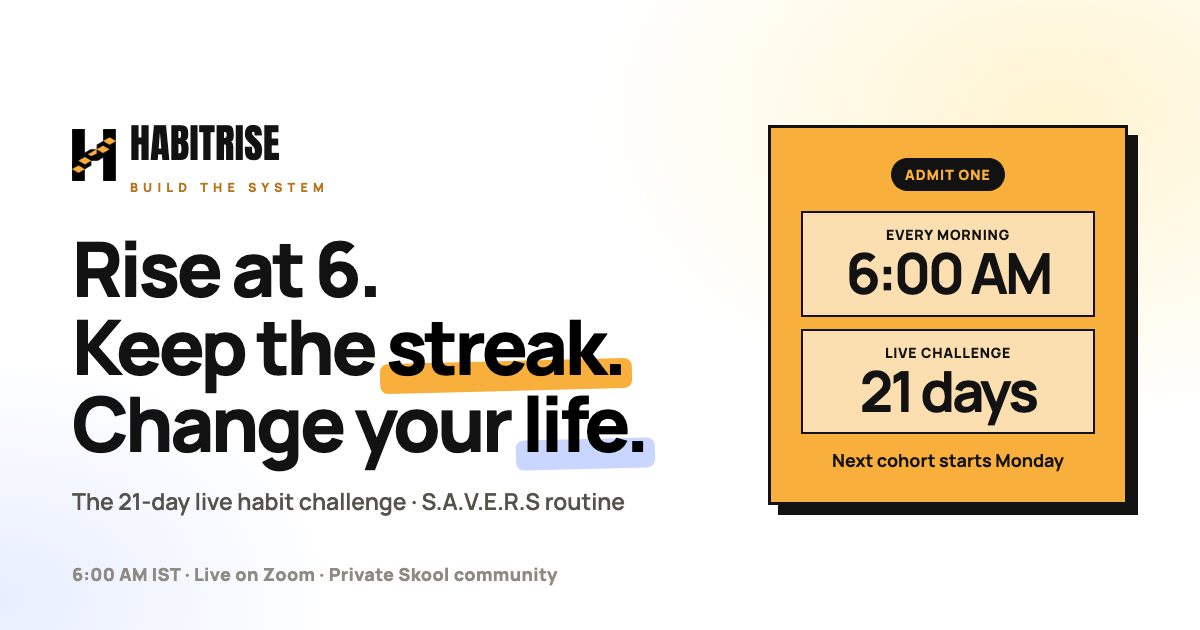
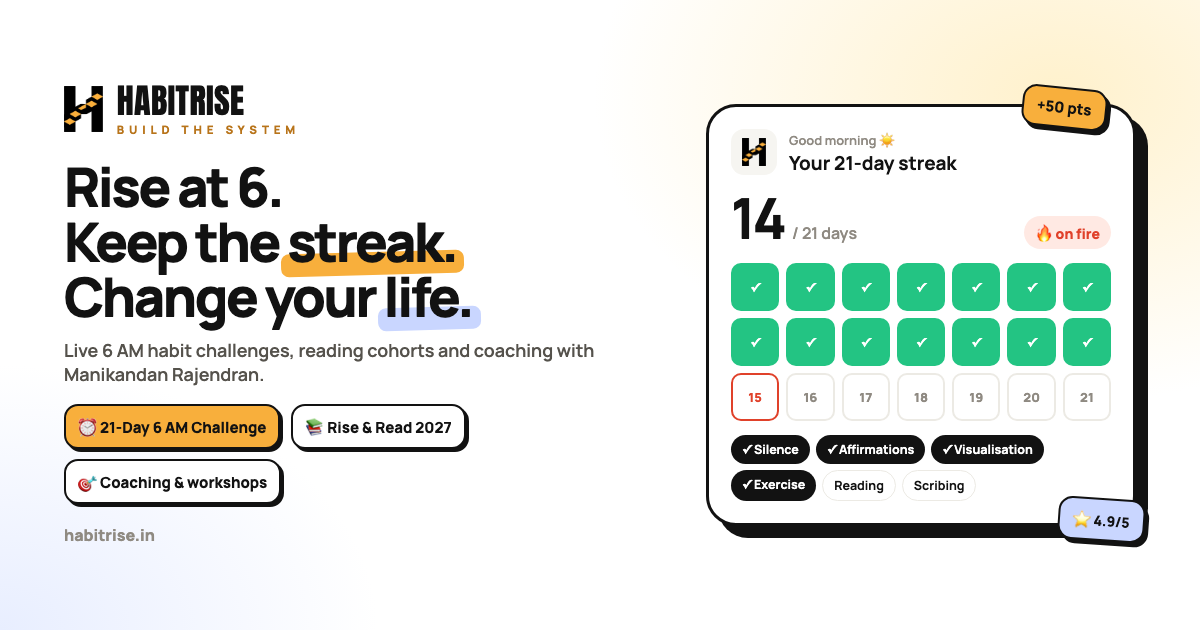
Whole-website ads (1200×630 + 1080×1080); the thumbnail is now the site share image; README: ads and the admin dashboard

diff --git a/scripts/ads/habitrise.html b/scripts/ads/habitrise.html
@@ -1,0 +1,99 @@
+<!doctype html>
+<!-- HabitRise ad for the whole website. ?size=thumb (1200×630, also the site's share image) or ?size=square (1080×1080).
+     Render: node scripts/ads/render.mjs → public/ads/ (+ public/og-image.png) -->
+<html><head><meta charset="utf-8">
+<link href="https://fonts.googleapis.com/css2?family=Anton&family=Manrope:wght@500;600;700;800&display=block" rel="stylesheet">
+<style>
+  *{box-sizing:border-box;margin:0;padding:0}
+  :root{--ink:#121212;--sun:#f8af3c;--deep:#cf8a1f;--mint:#23c483;--grey:#55524c}
+  html,body{overflow:hidden;font-family:Manrope,sans-serif;color:var(--ink)}
+  body{background:#fff;background-image:radial-gradient(55% 70% at 88% 15%,#fff1cc 0%,rgba(255,255,255,0) 70%),radial-gradient(45% 60% at 0% 100%,#e8eeff 0%,rgba(255,255,255,0) 70%)}
+  .wrap{position:absolute;inset:0;display:grid;align-items:center}
+  .brand{display:flex;align-items:center;gap:14px;font-family:Anton;letter-spacing:.01em;line-height:1}
+  .brand small{display:block;font-family:Manrope;font-weight:800;letter-spacing:.42em;color:#b8741a;margin-top:6px}
+  h1{font-weight:800;letter-spacing:-.045em;line-height:1.02}
+  mark{background:none;position:relative;white-space:nowrap;color:inherit}
+  mark::before{content:"";position:absolute;left:-6px;right:-8px;bottom:.06em;height:.42em;z-index:-1;border-radius:8px;transform:rotate(-1.5deg);background:var(--sun)}
+  mark.b::before{background:#c9d6ff}
+  .sub{font-weight:600;color:var(--grey)}
+  .offers{display:grid;gap:10px}
+  .offers span{display:flex;align-items:center;gap:10px;font-weight:800;border:2.5px solid var(--ink);border-radius:14px;background:#fff;padding:9px 14px;width:max-content;box-shadow:3px 3px 0 var(--ink)}
+  .offers span:first-child{background:var(--sun)}
+  .url{font-weight:800;color:#8f8a82}
+  /* streak card */
+  .card{position:relative;background:#fff;border:3px solid var(--ink);border-radius:30px;box-shadow:12px 12px 0 var(--ink)}
+  .hd{display:flex;align-items:center;gap:12px}
+  .hd .m{width:46px;height:46px;border-radius:13px;background:#f6f5f1;display:grid;place-items:center}
+  .hd small{display:block;font-size:13px;font-weight:600;color:#8f8a82}
+  .hd b{font-size:19px}
+  .cnt{display:flex;align-items:baseline;gap:8px;margin:14px 0}
+  .cnt b{font-size:56px;letter-spacing:-.05em;line-height:1}
+  .cnt span{font-weight:600;color:#8f8a82}
+  .cnt em{margin-left:auto;font-style:normal;font-weight:800;font-size:14px;color:#e0412a;background:#ffe9e3;padding:5px 11px;border-radius:999px}
+  .days{display:grid;grid-template-columns:repeat(7,1fr);gap:7px}
+  .days i{aspect-ratio:1;border-radius:10px;border:2px solid #eceae4;display:grid;place-items:center;font-style:normal;font-weight:800;font-size:13px;color:#8f8a82}
+  .days i.on{background:var(--mint);border-color:var(--mint);color:#fff}
+  .days i.t{border-color:#e0412a;color:#e0412a}
+  .chips{display:flex;flex-wrap:wrap;gap:6px;margin-top:14px}
+  .chips b{font-size:12.5px;padding:6px 11px;border-radius:999px;background:var(--ink);color:#fff}
+  .chips b.off{background:#fff;color:var(--ink);border:1.5px solid #eceae4}
+  .st{position:absolute;z-index:3;font-weight:800;border:2.5px solid var(--ink);border-radius:14px;box-shadow:4px 4px 0 var(--ink);padding:8px 13px}
+
+  body.thumb{width:1200px;height:630px}
+  .thumb .wrap{padding:54px 64px;grid-template-columns:1fr 430px;gap:52px}
+  .thumb .brand{font-size:34px}.thumb .brand img{height:46px}.thumb .brand small{font-size:11.5px}
+  .thumb h1{font-size:54px;margin:24px 0 14px}
+  .thumb .sub{font-size:18px;max-width:560px;margin-bottom:18px}
+  .thumb .offers{grid-template-columns:auto auto;justify-content:start}.thumb .offers span{font-size:15px;padding:8px 12px}
+  .thumb .url{font-size:16px;margin-top:20px}
+  .thumb .card{padding:22px}
+  .thumb .s1{top:-20px;right:26px;background:var(--sun);transform:rotate(6deg);font-size:15px}
+  .thumb .s2{display:none}
+  .thumb .s3{bottom:-18px;right:-12px;background:#c9d6ff;transform:rotate(4deg);font-size:14px}
+
+  body.square{width:1080px;height:1080px}
+  .square .wrap{padding:70px 76px;align-content:start;gap:38px}
+  .square .brand{font-size:38px}.square .brand img{height:52px}.square .brand small{font-size:13px}
+  .square h1{font-size:88px;margin:34px 0 18px}
+  .square .sub{font-size:24px;max-width:860px}
+  .square .bottom{display:grid;grid-template-columns:1fr 450px;gap:40px;align-items:end;margin-top:6px}
+  .square .offers span{font-size:20px;padding:11px 16px}
+  .square .url{font-size:20px;margin-top:22px}
+  .square .card{padding:22px}
+  .square .s1{top:-20px;right:26px;background:var(--sun);transform:rotate(6deg);font-size:16px}
+  .square .s2{display:none}
+  .square .s3{bottom:-18px;right:-12px;background:#c9d6ff;transform:rotate(4deg);font-size:15px}
+</style></head>
+<body>
+<script>document.body.className = new URLSearchParams(location.search).get('size') === 'square' ? 'square' : 'thumb';</script>
+<div class="wrap">
+  <div class="copy">
+    <div class="brand"><img src="../../public/img/brand/mark-black.png" alt=""><div>HABITRISE<small>BUILD THE SYSTEM</small></div></div>
+    <h1>Rise at 6.<br>Keep the <mark>streak.</mark><br>Change your <mark class="b">life.</mark></h1>
+    <p class="sub">Live 6 AM habit challenges, reading cohorts and coaching with Manikandan Rajendran.</p>
+    <div class="side">
+      <div class="offers"><span>⏰ 21-Day 6 AM Challenge</span><span>📚 Rise &amp; Read 2027</span><span>🎯 Coaching &amp; workshops</span></div>
+      <p class="url">habitrise.in</p>
+    </div>
+  </div>
+  <div class="art">
+    <div class="card">
+      <span class="st s1">+50 pts</span><span class="st s2">🔴 Live in 2 min</span><span class="st s3">⭐ 4.9/5</span>
+      <div class="hd"><span class="m"><img src="../../public/img/brand/mark-black.png" alt="" style="height:28px"></span><div><small>Good morning ☀</small><b>Your 21-day streak</b></div></div>
+      <div class="cnt"><b>14</b><span>/ 21 days</span><em>🔥 on fire</em></div>
+      <div class="days">
+        <i class="on">✓</i><i class="on">✓</i><i class="on">✓</i><i class="on">✓</i><i class="on">✓</i><i class="on">✓</i><i class="on">✓</i>
+        <i class="on">✓</i><i class="on">✓</i><i class="on">✓</i><i class="on">✓</i><i class="on">✓</i><i class="on">✓</i><i class="on">✓</i>
+        <i class="t">15</i><i>16</i><i>17</i><i>18</i><i>19</i><i>20</i><i>21</i>
+      </div>
+      <div class="chips"><b>✓ Silence</b><b>✓ Affirmations</b><b>✓ Visualisation</b><b>✓ Exercise</b><b class="off">Reading</b><b class="off">Scribing</b></div>
+    </div>
+  </div>
+</div>
+<script>
+  if (document.body.className === 'square') {
+    const w = document.querySelector('.wrap'), art = document.querySelector('.art'), side = document.querySelector('.side');
+    const bottom = document.createElement('div'); bottom.className = 'bottom'; bottom.append(side, art); w.append(bottom);
+  }
+</script>
+</body></html>

diff --git a/README.md b/README.md
@@ -220,15 +220,26 @@ pasted, they see "we'll send your payment link on WhatsApp" instead.
 
 | File | Size | Use it for |
 |---|---|---|
-| [`public/ads/rise-and-read-thumb.png`](public/ads/rise-and-read-thumb.png) | 1200×630 | Link previews (WhatsApp, LinkedIn, X), YouTube-style thumbnails. Also the share image for `/rise-and-read` |
-| [`public/ads/rise-and-read-square.png`](public/ads/rise-and-read-square.png) | 1080×1080 | Instagram and LinkedIn posts |
-| [`public/og-image.png`](public/og-image.png) | 1200×630 | The share image for every other page |
+| [`public/ads/habitrise-thumb.png`](public/ads/habitrise-thumb.png) | 1200×630 | **The whole website**: link previews, YouTube-style thumbnails. Also copied to `public/og-image.png`, the share image for every page |
+| [`public/ads/habitrise-square.png`](public/ads/habitrise-square.png) | 1080×1080 | **The whole website**: Instagram and LinkedIn posts |
+| [`public/ads/rise-and-read-thumb.png`](public/ads/rise-and-read-thumb.png) | 1200×630 | Rise & Read 2027 only; also the share image for `/rise-and-read` |
+| [`public/ads/rise-and-read-square.png`](public/ads/rise-and-read-square.png) | 1080×1080 | Rise & Read 2027 posts |
 
-![Rise & Read 2027 thumbnail](public/ads/rise-and-read-thumb.png)
+![HabitRise thumbnail](public/ads/habitrise-thumb.png)
 
-They're HTML designs rendered with headless Chrome, so text changes are quick: edit
-[`scripts/ads/rise-and-read.html`](scripts/ads/rise-and-read.html) (or `scripts/og/og-image.html`) and run
-`node scripts/ads/render.mjs` (or `node scripts/og/render.mjs`). The ads carry no prices until they're confirmed.
+They're HTML designs in [`scripts/ads/`](scripts/ads/) rendered with headless Chrome, so text changes are quick: edit
+`habitrise.html` or `rise-and-read.html` and run `node scripts/ads/render.mjs` (it renders all four and refreshes
+`public/og-image.png`). No prices appear on them.
+
+---
+
+## Admin dashboard
+
+A private dashboard lives in its own private repo, **[abxengg/habitrise-admin](https://github.com/abxengg/habitrise-admin)**:
+submissions per form with trends, the latest entries, email delivery, payment links (and payments once a Razorpay
+key is added), site and form receiver deploys, changes waiting for Redeploy, CMS edits and the changelog.
+Only Google accounts the submissions Sheet is shared with can see it. Open it:
+<https://script.google.com/macros/s/AKfycbxMVTJOWO9pwxHwOcv0asTsdgdckaf4lwBFH7pA9jWgcJtDrbsaXV3chDmhyqXMfFXd/exec>
 
 ---
 
@@ -236,7 +247,7 @@ They're HTML designs rendered with headless Chrome, so text changes are quick: e
 
 - Per-page title and description from each page's **SEO** block in the CMS, with defaults in Site settings → SEO.
 - Canonical URLs, `en-IN`, Open Graph and Twitter cards, and a price-free 1200×630 share image (`public/og-image.png`).
-  Re-render it with `node scripts/og/render.mjs`.
+  Re-render it with `node scripts/ads/render.mjs`.
 - Structured data (JSON-LD): Organization, WebSite, Course with both offers (on `/register`), FAQPage, founder
   ProfilePage, Services, Breadcrumbs.
 - `/sitemap.xml`, `/robots.txt`, `/.well-known/security.txt`, web manifest, favicons, a "skip to content" link and a
@@ -285,7 +296,7 @@ npm run preview    # serve dist/
 | Form receiver (Google) | `scripts/google-apps-script/Code.gs`, with [`SETUP.md`](scripts/google-apps-script/SETUP.md) |
 | `<head>`, SEO, JSON-LD | `src/layouts/Shell.astro` |
 | Sitemap, robots | `src/pages/sitemap.xml.ts`, `src/pages/robots.txt.ts` |
-| Share image | `scripts/og/og-image.html`, rendered by `scripts/og/render.mjs` |
+| Ads + share image | `scripts/ads/*.html`, rendered by `scripts/ads/render.mjs` |
 | Deploy and release | `.github/workflows/pages.yml` |
 
 **Base path:** GitHub Pages serves the site under `/habitrise/`, so internal links and images go through `u()`
